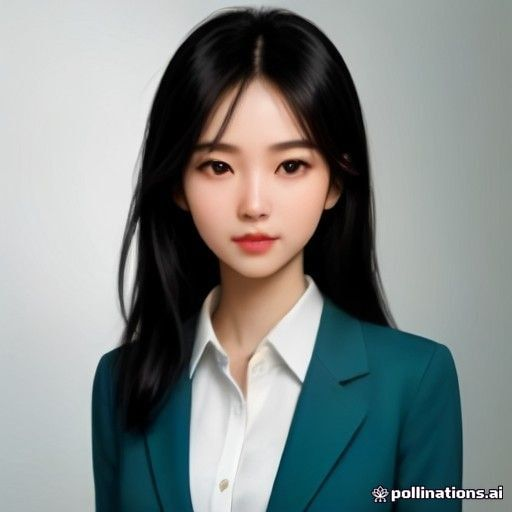
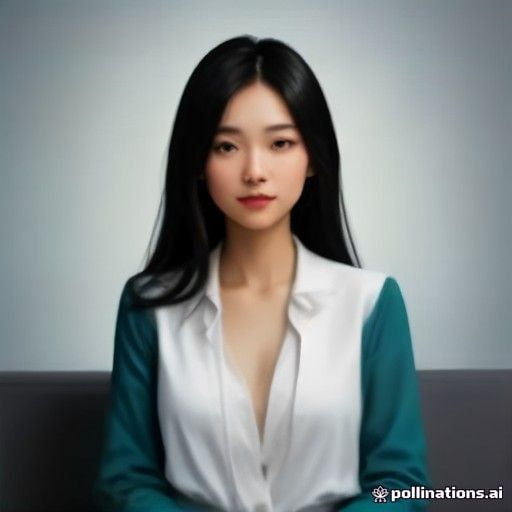
내 화면 제거·면접관 2인 확대+모션, 시선·자세 태도 감점 채점식

diff --git a/app.js b/app.js
@@ -42,6 +42,9 @@ const S = {
   closingDone: false,
   closingAnswer: '',
   gaze: { good: 0, total: 0 },
+  posture: { bad: 0, total: 0 },
+  attitudePenalty: 0,
+  gazePct: null,
 
   timer: { id: null, left: 0 },
   phase: 'idle',   // idle | ready | listening | thinking
@@ -765,7 +768,9 @@ function startFaceLoop() {
 
 function updateFaceUI(res) {
   const lm = res && res.faceLandmarks && res.faceLandmarks[0];
+  const counting = S.phase === 'ready' || S.phase === 'thinking';
   if (!lm) {
+    if (counting) S.gaze.total++;
     setChip(el.chipGaze, '얼굴이 안 보여요', 'warn');
     setChip(el.chipPosture, '카메라에 얼굴을 맞춰주세요', 'warn');
     return;
@@ -788,9 +793,12 @@ function updateFaceUI(res) {
   const pitch = (lm[1].y - eyeMidY) / h;
 
   const looking = gazeDev < 0.22 && Math.abs(yaw) < 0.15;
-  if (S.phase === 'ready' || S.phase === 'thinking') {
+  const badPosture = cy > 0.68 || pitch > 0.28 || h < 0.18 || h > 0.8 || pitch < -0.22 || Math.abs(yaw) > 0.22;
+  if (counting) {
     S.gaze.total++;
     if (looking) S.gaze.good++;
+    S.posture.total++;
+    if (badPosture) S.posture.bad++;
   }
   if (looking) setChip(el.chipGaze, '눈맞춤 좋아요', 'good');
   else setChip(el.chipGaze, '카메라(면접관 눈)를 봐주세요', 'warn');
@@ -1264,6 +1272,9 @@ async function startInterview() {
   S.closingSpeaker = null;
   S.closingAnswer = '';
   S.gaze = { good: 0, total: 0 };
+  S.posture = { bad: 0, total: 0 };
+  S.attitudePenalty = 0;
+  S.gazePct = null;
   el.compSection.hidden = true;
   el.trvSection.hidden = true;
   el.anSection.hidden = true;
@@ -1536,7 +1547,7 @@ function gradeFromRatio(ratio, mode) {
   return 'F';
 }
 
-function computeAggregates(scores = S.scores, mode = S.mode, overtimeSec = S.overtimeSec) {
+function computeAggregates(scores = S.scores, mode = S.mode, overtimeSec = S.overtimeSec, attitudePenalty = S.attitudePenalty) {
   const n = scores.length;
   const cats = mode === 'passage' ? PASSAGE_CATS : DOC_CATS;
   const agg = {};
@@ -1553,9 +1564,10 @@ function computeAggregates(scores = S.scores, mode = S.mode, overtimeSec = S.ove
   const avgTotal = n ? scores.reduce((a, b) => a + b.total, 0) / n : 0;
   let finalTotal = Math.round(avgTotal);
   const overtimePenalty = Math.min(20, Math.floor(overtimeSec / 60) * 2); // 초과 1분당 2점 감점, 최대 20점
-  finalTotal = Math.max(0, finalTotal - overtimePenalty);
+  const att = Math.max(0, Math.min(10, Math.round(Number(attitudePenalty) || 0))); // 태도 감점, 최대 10점
+  finalTotal = Math.max(0, finalTotal - overtimePenalty - att);
   const feedbacks = [...new Set(scores.map((x) => x.feedback).filter(Boolean))];
-  return { n, agg, avgTotal, finalTotal, feedbacks, overtimePenalty };
+  return { n, agg, avgTotal, finalTotal, feedbacks, overtimePenalty, attitudePenalty: att };
 }
 
 async function finalize() {
@@ -1566,16 +1578,26 @@ async function finalize() {
   stopLiveCamera();
   el.liveStage.hidden = true;
   switchView('end');
-  if (S.gaze.total > 5) {
-    const pct = Math.round((S.gaze.good / S.gaze.total) * 100);
-    el.gazeSummary.hidden = false;
-    el.gazeSummary.textContent = `라이브 분석 · 눈맞춤 ${pct}% — ` + (pct >= 70
-      ? '면접관과 눈을 잘 마주쳤어요.'
-      : pct >= 40
-        ? '시선이 가끔 흔들렸어요. 카메라 정면을 의식해 보세요.'
-        : '시선이 자주 벗어났어요. 카메라 렌즈를 보고 말하는 연습을 해보세요.');
-  } else {
+  let eyePen = 0, posPen = 0, gazePct = null;
+  if (S.gaze.total >= 10) {
+    gazePct = Math.round((S.gaze.good / S.gaze.total) * 100);
+    eyePen = gazePct >= 70 ? 0 : gazePct >= 50 ? 2 : gazePct >= 30 ? 5 : 8;
+  }
+  if (S.posture.total >= 10) {
+    const badShare = S.posture.bad / S.posture.total;
+    posPen = badShare > 0.5 ? 4 : badShare > 0.3 ? 2 : 0;
+  }
+  S.attitudePenalty = Math.min(10, eyePen + posPen);
+  S.gazePct = gazePct;
+  if (gazePct === null) {
     el.gazeSummary.hidden = true;
+  } else {
+    el.gazeSummary.hidden = false;
+    el.gazeSummary.textContent = `라이브 분석 · 눈맞춤 ${gazePct}%` +
+      (S.attitudePenalty > 0 ? ` · 태도 -${S.attitudePenalty}점` : ' · 태도 감점 없음') +
+      (gazePct >= 70 ? ' — 면접관과 눈을 잘 마주쳤어요.'
+        : gazePct >= 40 ? ' — 시선이 가끔 흔들렸어요. 카메라 정면을 의식해 보세요.'
+          : ' — 시선이 자주 벗어났어요. 카메라 렌즈를 보고 말하는 연습을 해보세요.');
   }
   generateComprehensive();
 }
@@ -1583,7 +1605,7 @@ async function finalize() {
 /* ================= 점수 화면 ================= */
 
 function paintScore(targets, scores, mode, meta = {}) {
-  const { agg, finalTotal, feedbacks, overtimePenalty } = computeAggregates(scores, mode, meta.overtimeSec ?? S.overtimeSec);
+  const { agg, finalTotal, feedbacks, overtimePenalty, attitudePenalty } = computeAggregates(scores, mode, meta.overtimeSec ?? S.overtimeSec, meta.attitudePenalty ?? S.attitudePenalty);
   const C = 2 * Math.PI * 78;
   targets.gauge.innerHTML = `<svg viewBox="0 0 180 180" aria-hidden="true">
     <defs><linearGradient id="gauge-grad" x1="0" y1="0" x2="1" y2="1">
@@ -1597,7 +1619,8 @@ function paintScore(targets, scores, mode, meta = {}) {
   const totalGrade = gradeFromRatio(finalTotal / 100, mode);
   const totalWord = finalTotal >= 90 ? '매우 우수' : finalTotal >= 80 ? '우수' : finalTotal >= 70 ? '양호' : finalTotal >= 60 ? '보통' : '미흡';
   const penNote = overtimePenalty > 0 ? ` · 초과 시간 -${overtimePenalty}점` : '';
-  targets.grade.textContent = `${totalWord} (${totalGrade} 등급)${penNote}`;
+  const attNote = attitudePenalty > 0 ? ` · 태도 -${attitudePenalty}점` : '';
+  targets.grade.textContent = `${totalWord} (${totalGrade} 등급)${penNote}${attNote}`;
   targets.feedback.textContent = feedbacks.join(' ') || '모든 문항이 채점되었습니다.';
 
   targets.qScores.innerHTML = '';
@@ -1883,6 +1906,8 @@ async function saveRecord() {
       items: S.scores,
       transcript: S.transcript,
       overtimeSec: S.overtimeSec || 0,
+      attitudePenalty: S.attitudePenalty || 0,
+      gazePct: S.gazePct,
       comprehensive: comp,
       createdAt: Date.now(),
     });
@@ -1922,7 +1947,7 @@ function renderRecords() {
 function showRecordView(rec) {
   S.currentRecord = rec;
   el.recvTitle.textContent = recordTitle(rec);
-  const meta = { ...(rec.comprehensive && rec.comprehensive.meta ? rec.comprehensive.meta : {}), overtimeSec: rec.overtimeSec || 0 };
+  const meta = { ...(rec.comprehensive && rec.comprehensive.meta ? rec.comprehensive.meta : {}), overtimeSec: rec.overtimeSec || 0, attitudePenalty: rec.attitudePenalty || 0 };
   paintScore({
     gauge: el.recvGauge, final: el.recvFinal, grade: el.recvGrade, feedback: el.recvFeedback,
     qScores: el.recvQScores, catScores: el.recvCatScores,
@@ -2065,6 +2090,9 @@ function resetInterview(full) {
   S.closingPhase = false; S.closingDone = false; S.closingSpeaker = null; S.closingAnswer = '';
   S.speakers = [];
   S.gaze = { good: 0, total: 0 };
+  S.posture = { bad: 0, total: 0 };
+  S.attitudePenalty = 0;
+  S.gazePct = null;
   S.busy = false; S.timerExpired = false; S.overtimeSec = 0; S.phase = 'idle';
   S.transcript = [];
   S.comprehensive = null;

diff --git a/styles.css b/styles.css
@@ -1224,7 +1224,7 @@ textarea { resize: vertical; line-height: 1.6; }
 .live-stage .hint { color: #a9b2d6; margin-top: 8px; }
 .iv-row {
   display: grid;
-  grid-template-columns: 1fr 1fr 1.2fr;
+  grid-template-columns: 1fr 1fr;
   gap: 12px;
 }
 .iv-card {
@@ -1245,14 +1245,18 @@ textarea { resize: vertical; line-height: 1.6; }
   box-shadow: 0 0 0 3px rgba(79, 93, 255, 0.25), 0 8px 24px rgba(79, 93, 255, 0.35);
 }
 .iv-photo svg, .iv-photo img {
-  width: 96px;
-  height: 96px;
+  width: 128px;
+  height: 128px;
   border-radius: 50%;
   display: block;
   transform-origin: 50% 90%;
 }
-.iv-photo img { object-fit: cover; background: #0c1022; }
-.iv-card.speaking .iv-photo svg, .iv-card.speaking .iv-photo img { animation: iv-talk 0.9s ease-in-out infinite; }
+.iv-photo img { object-fit: cover; background: #0c1022; animation: iv-idle 9s ease-in-out infinite alternate; }
+.iv-card.speaking .iv-photo { animation: iv-talk 0.9s ease-in-out infinite; }
+@keyframes iv-idle {
+  from { transform: scale(1) translateY(0); }
+  to { transform: scale(1.07) translateY(-4px); }
+}
 @keyframes iv-talk {
   0%, 100% { transform: translateY(0) rotate(0deg); }
   30% { transform: translateY(-3px) rotate(-1.2deg); }
@@ -1295,40 +1299,8 @@ textarea { resize: vertical; line-height: 1.6; }
   background: #ff5a5a;
   animation: pulse 1.4s ease-in-out infinite;
 }
-.iv-self {
-  background: rgba(255, 255, 255, 0.06);
-  border-radius: 14px;
-  padding: 10px;
-  display: flex;
-  flex-direction: column;
-  gap: 8px;
-}
-.iv-self-video-wrap {
-  position: relative;
-  border-radius: 10px;
-  overflow: hidden;
-  background: #0c1022;
-  aspect-ratio: 4 / 3;
-}
-.iv-self-video-wrap video {
-  width: 100%;
-  height: 100%;
-  object-fit: cover;
-  transform: scaleX(-1);
-  display: block;
-}
-.iv-self-label {
-  position: absolute;
-  left: 8px;
-  bottom: 8px;
-  font-size: 11px;
-  font-weight: 800;
-  background: rgba(0, 0, 0, 0.55);
-  color: #fff;
-  border-radius: 999px;
-  padding: 2px 10px;
-}
-.gaze-chips { display: flex; flex-wrap: wrap; gap: 6px; }
+.iv-self-cam { display: none; }
+.gaze-chips { display: flex; flex-wrap: wrap; gap: 6px; margin-top: 10px; }
 .gaze-chips .chip {
   font-size: 12px;
   font-weight: 700;
@@ -1345,7 +1317,5 @@ textarea { resize: vertical; line-height: 1.6; }
 .msg.bot .avatar.iv-f { background: linear-gradient(135deg, #9d4edd, #f15bb5); }
 
 @media (max-width: 640px) {
-  .iv-row { grid-template-columns: 1fr 1fr; }
-  .iv-self { grid-column: 1 / -1; }
-  .iv-photo svg, .iv-photo img { width: 76px; height: 76px; }
+  .iv-photo svg, .iv-photo img { width: 88px; height: 88px; }
 }

diff --git a/index.html b/index.html
@@ -260,18 +260,15 @@
             <div class="iv-eq" aria-hidden="true"><span></span><span></span><span></span><span></span></div>
             <div class="iv-name">여자 면접관 <span class="iv-badge" id="iv-female-badge">대기</span></div>
           </div>
-          <div class="iv-self">
-            <div class="iv-self-video-wrap">
-              <video id="self-video" playsinline muted autoplay></video>
-              <span class="iv-self-label">나</span>
-            </div>
-            <div id="gaze-chips" class="gaze-chips">
-              <span class="chip" id="chip-gaze">눈맞춤 확인 중…</span>
-              <span class="chip" id="chip-posture">자세 확인 중…</span>
-            </div>
+          <div class="iv-self-cam" hidden>
+            <video id="self-video" playsinline muted autoplay></video>
+          </div>
+          <div id="gaze-chips" class="gaze-chips">
+            <span class="chip" id="chip-gaze">눈맞춤 확인 중…</span>
+            <span class="chip" id="chip-posture">자세 확인 중…</span>
           </div>
         </div>
-        <p class="hint center">카메라 정면을 봐주세요. 질문하는 면접관이 말하고, 눈맞춤·자세 힌트가 아래에 표시됩니다.
+        <p class="hint center">내 화면은 표시되지 않고 분석에만 사용됩니다. 카메라 정면을 보면 눈맞춤·자세 힌트가 아래에 표시되고, 종료 후 태도 점수에 반영됩니다.
           <button id="btn-camera-retry" class="link-btn" type="button" hidden>카메라 다시 켜기</button>
         </p>
       </div>
